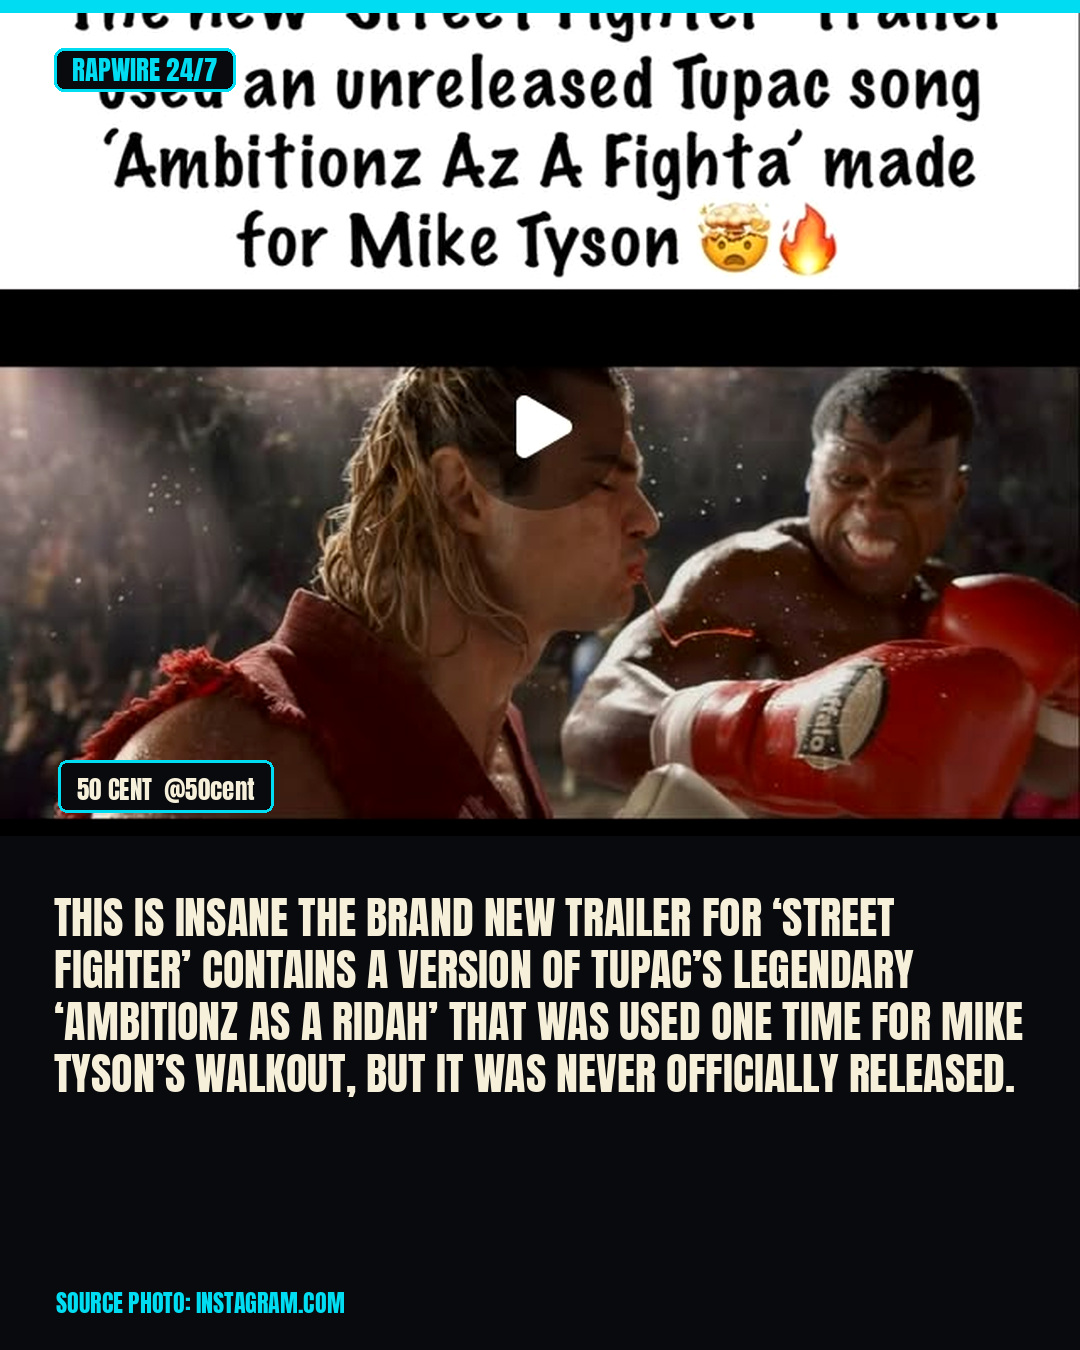
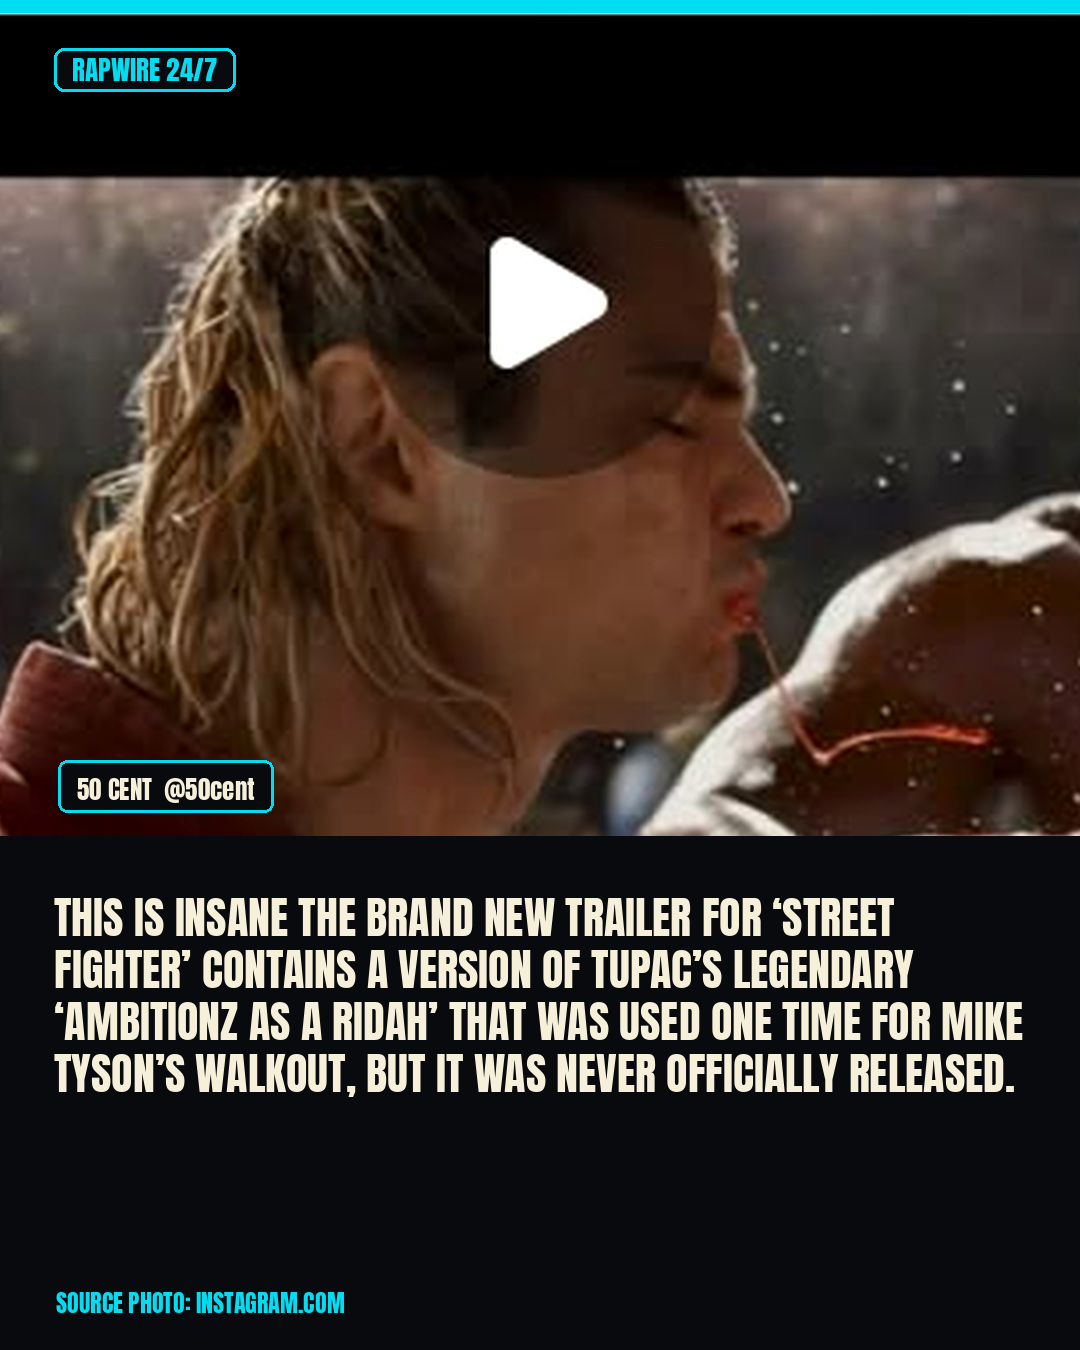
Fix source screenshot crops and top-safe framing

diff --git a/scripts/fallback-photo-post.py b/scripts/fallback-photo-post.py
@@ -772,15 +772,21 @@ def editorial_focus(image):
     bottom_band = image.crop((0, int(height * 0.82), width, height)).convert("L")
     top_mean = ImageStat.Stat(top_band).mean[0]
     bottom_mean = ImageStat.Stat(bottom_band).mean[0]
-    has_bright_social_header = top_mean > 220
-    top = int(height * 0.18) if has_bright_social_header else 0
+    # Source-blog screenshots often put a white headline/card above the actual
+    # photo. Treat a very bright upper band as social chrome and remove it
+    # before fitting; otherwise that baked-in copy is visibly clipped in the
+    # RapWire hero frame. Keep a conservative floor so real bright skies are
+    # not discarded.
+    bright_ratio = sum(1 for px in top_band.getdata() if px >= 238) / max(1, top_band.width * top_band.height)
+    has_bright_social_header = top_mean > 220 or bright_ratio > 0.48
+    top = int(height * 0.35) if has_bright_social_header else 0
     # Social screenshots with a bright header generally carry account chrome
     # below the subject as well. Remove that whole footer instead of leaving
     # clipped usernames or post text in Story crops.
     bottom = int(height * 0.78) if has_bright_social_header else (
         int(height * 0.82) if bottom_mean > 220 else height
     )
-    if bottom - top >= int(height * 0.50):
+    if bottom - top >= int(height * 0.35):
         return image.crop((0, top, width, bottom))
     return image
 
